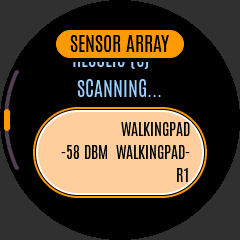
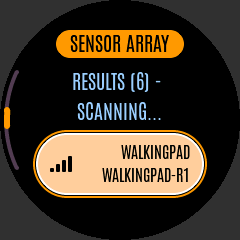
HMI: show 4-bar signal-strength pictogram instead of numeric RSSI

diff --git a/src/variants/hmi/hmi_ui.cpp b/src/variants/hmi/hmi_ui.cpp
@@ -223,7 +223,7 @@ std::string HmiUi::signature() const {
                    status_.input.paired.adapter + std::to_string(status_.input.bleSelected) +
                    std::to_string(config_.simulatedTrainer);
             for (const auto& device : scan_.devices)
-                sig += "|" + device.address + device.name + device.adapter + std::to_string(device.rssi);
+                sig += "|" + device.address + device.name + device.adapter + std::to_string(signalLevel(device.rssi));
             break;
         case Screen::Control:
             sig += std::to_string(static_cast<int>(status_.state)) + std::to_string(status_.canControl) +
@@ -538,8 +538,14 @@ void HmiUi::buildDevices() {
     for (std::size_t index = 0; index < scan_.devices.size(); ++index) {
         const auto& dev = scan_.devices[index];
         const std::uint32_t color = scanEntryMuted(dev) ? lcars::Gray : lcars::Violet;
-        lcars::pill(addButton(list, scanEntryLabel(dev),
-                             [this, index] { openDevice(index); }), color);
+        lv_obj_t* entry = addButton(list, scanEntryLabel(dev), [this, index] { openDevice(index); });
+        lcars::pill(entry, color);
+        // Signal pictogram in the widened left padding, clear of the text.
+        constexpr lv_coord_t kIconGap = 6;
+        const lv_coord_t padLeft = lv_obj_get_style_pad_left(entry, LV_PART_MAIN);
+        lv_obj_set_style_pad_left(entry, padLeft + lcars::SignalBarsWidth + kIconGap, 0);
+        lv_obj_align(lcars::signalBars(entry, signalLevel(dev.rssi), lcars::Black), LV_ALIGN_LEFT_MID,
+                     -(lcars::SignalBarsWidth + kIconGap), 0);
     }
     addButton(list, tr(Str::Back), [this] { back(); });
 }
@@ -549,10 +555,11 @@ void HmiUi::buildDeviceDetail() {
     makeScreen(title);
     lv_obj_t* list = makeList(root_);
     if (!device_.name.empty()) addLabel(list, device_.name);
-    std::string info = device_.address + "\n" + std::to_string(device_.rssi) + " dBm\n" + tr(Str::Adapter) + ": " +
+    addLabel(list, device_.address);
+    lcars::signalBars(list, signalLevel(device_.rssi), lcars::LightBlue);
+    addLabel(list, std::string(tr(Str::Adapter)) + ": " +
                        (device_.adapter.empty() ? std::string(tr(Str::Unknown))
-                                                : device_.adapter + " (" + tr(Str::Detected) + ")");
-    addLabel(list, info);
+                                                : device_.adapter + " (" + tr(Str::Detected) + ")"));
     if (!device_.adapter.empty()) {
         addButton(list, tr(Str::Pair), [this] {
             Command pair;

diff --git a/tests/host/test_hmi_model.cpp b/tests/host/test_hmi_model.cpp
@@ -155,10 +155,13 @@ void testStatusTexts() {
     ScanDeviceView device;
     device.address = "aa:00:00:00:00:22";
     device.rssi = -61;
-    assert(scanEntryLabel(device) == "aa:00:00:00:00:22\n-61 dBm  ?");
+    assert(scanEntryLabel(device) == "aa:00:00:00:00:22\n?");
+    assert(signalLevel(device.rssi) == 3);
+    assert(signalLevel(-40) == 4 && signalLevel(-60) == 4 && signalLevel(-70) == 3 && signalLevel(-71) == 2 &&
+           signalLevel(-80) == 2 && signalLevel(-81) == 1 && signalLevel(-110) == 1);
     device.label = "Apple";
     device.relevant = false;
-    assert(scanEntryLabel(device) == "Apple\n-61 dBm  ?");
+    assert(scanEntryLabel(device) == "Apple\n?");
     assert(scanEntryMuted(device));
     device.label = "FTMS";
     device.relevant = true;  // known service, but no advertised name
@@ -167,7 +170,7 @@ void testStatusTexts() {
     device.label = "WalkingPad";
     device.relevant = true;
     device.adapter = "walkingpad-r1";
-    assert(scanEntryLabel(device) == "WalkingPad\n-61 dBm  walkingpad-r1");
+    assert(scanEntryLabel(device) == "WalkingPad\nwalkingpad-r1");
     assert(!scanEntryMuted(device));
     assert(onOff(true) == "on" && onOff(false) == "off");
 }

diff --git a/src/variants/hmi/lcars_theme.cpp b/src/variants/hmi/lcars_theme.cpp
@@ -215,4 +215,25 @@ void setGauge(const Gauge& segments, float ratio, bool alert) {
     }
 }
 
+lv_obj_t* signalBars(lv_obj_t* parent, int level, std::uint32_t color) {
+    lv_obj_t* icon = lv_obj_create(parent);
+    lv_obj_remove_style_all(icon);
+    lv_obj_set_size(icon, SignalBarsWidth, SignalBarsHeight);
+    lv_obj_remove_flag(icon, LV_OBJ_FLAG_CLICKABLE);
+    lv_obj_remove_flag(icon, LV_OBJ_FLAG_SCROLLABLE);
+    for (int bar = 0; bar < SignalBarCount; ++bar) {
+        lv_obj_t* segment = lv_obj_create(icon);
+        lv_obj_remove_style_all(segment);
+        const int height = SignalBarsHeight * (bar + 1) / SignalBarCount;
+        lv_obj_set_size(segment, SignalBarWidth, height);
+        lv_obj_set_pos(segment, bar * (SignalBarWidth + SignalBarGap), SignalBarsHeight - height);
+        lv_obj_set_style_radius(segment, 1, 0);
+        lv_obj_set_style_bg_color(segment, lv_color_hex(color), 0);
+        // Unlit bars stay visible as outline steps, so the level reads by shape.
+        lv_obj_set_style_bg_opa(segment, bar < level ? LV_OPA_COVER : LV_OPA_30, 0);
+        lv_obj_remove_flag(segment, LV_OBJ_FLAG_CLICKABLE);
+    }
+    return icon;
+}
+
 }  // namespace hmi::lcars

diff --git a/include/variants/hmi/lcars_theme.h b/include/variants/hmi/lcars_theme.h
@@ -33,6 +33,12 @@ constexpr int FocusRingWidth = 2;
 constexpr int FocusRingGap = 1;
 constexpr int FocusRing = FocusRingWidth + FocusRingGap;
 using Gauge = std::array<lv_obj_t*, GaugeSegments>;
+// Four-step signal-strength pictogram (rising bars, see hmi::signalLevel).
+constexpr int SignalBarCount = 4;
+constexpr int SignalBarWidth = 4;
+constexpr int SignalBarGap = 2;
+constexpr int SignalBarsWidth = SignalBarCount * SignalBarWidth + (SignalBarCount - 1) * SignalBarGap;
+constexpr int SignalBarsHeight = 16;
 
 void init(lv_display_t* display);
 std::string uppercase(std::string text);
@@ -41,5 +47,7 @@ void scrollbar(lv_obj_t* container);
 void pill(lv_obj_t* object, std::uint32_t color = Lavender);
 Gauge gauge(lv_obj_t* parent);
 void setGauge(const Gauge& segments, float ratio, bool alert = false);
+// Signal pictogram with `level` (0..SignalBarCount) lit bars in `color`.
+lv_obj_t* signalBars(lv_obj_t* parent, int level, std::uint32_t color);
 
 }  // namespace hmi::lcars

diff --git a/include/variants/hmi/hmi_model.h b/include/variants/hmi/hmi_model.h
@@ -97,8 +97,12 @@ std::string inputLabel(const smartfitness::StatusView& status);
 std::string ftmsLabel(const smartfitness::FtmsOutputView& ftms);
 // "Power 180 W" / "No target".
 std::string targetLabel(const smartfitness::StatusView& status);
-// Two-line scan list entry: name (or address) / "-60 dBm  ftms".
+// Two-line scan list entry: name (or address) / "ftms"; the signal strength is
+// shown as a pictogram next to it (see signalLevel).
 std::string scanEntryLabel(const smartfitness::ScanDeviceView& device);
+// Four-step signal-strength pictogram level (1..4 bars) for an RSSI in dBm:
+// >= -60 → 4, >= -70 → 3, >= -80 → 2, weaker → 1.
+int signalLevel(int rssi);
 // Grey scan entry: irrelevant devices (sorted last) and devices without an
 // advertised name, whose label falls back to manufacturer, service or address.
 bool scanEntryMuted(const smartfitness::ScanDeviceView& device);

diff --git a/src/variants/hmi/hmi_model.cpp b/src/variants/hmi/hmi_model.cpp
@@ -226,9 +226,16 @@ std::string targetLabel(const StatusView& status) {
 std::string scanEntryLabel(const ScanDeviceView& device) {
     const std::string& primary = !device.label.empty() ? device.label : (device.name.empty() ? device.address : device.name);
     std::string label = primary;
-    label += "\n" + std::to_string(device.rssi) + " dBm  ";
+    label += "\n";
     label += device.adapter.empty() ? std::string("?") : device.adapter;
     return label;
+}
+
+int signalLevel(int rssi) {
+    if (rssi >= -60) return 4;
+    if (rssi >= -70) return 3;
+    if (rssi >= -80) return 2;
+    return 1;
 }
 
 bool scanEntryMuted(const ScanDeviceView& device) { return !device.relevant || device.name.empty(); }

diff --git a/docs/hmi/README.md b/docs/hmi/README.md
@@ -66,6 +66,10 @@ peach on black. Error indicators also include text, not colour alone.
   use the larger preset pills when possible.
 - Data: large central digits, small unit, labelled secondary/status readouts;
   blue segments fill an arc (HMI) or a linear gauge (web).
+- Signal strength (HMI): a 4-bar pictogram (`lcars::signalBars`) replaces the
+  numeric RSSI in scan results (black on the pill, left of the label) and device
+  details (light blue). Bars lit: ≥ −60 dBm 4, ≥ −70 dBm 3, ≥ −80 dBm 2, else 1;
+  unlit bars stay visible at 30 % opacity so the level reads by shape.
 - Focus: brighter selection with a white outline, including `:focus-visible`.
   On the HMI the knob cursor is a 2 px white inner border plus a 2 px orange
   ring 1 px outside the focused pill/roller/keyboard (light blue while

diff --git a/README.md b/README.md
@@ -160,7 +160,7 @@ Screens (same interactions as the web UI):
 - **Dashboard** – arc gauge for the selected metric (power, cadence, speed, heart
   rate, incline, distance, time), target, connection/trainer/control state, machine
   profile and FTMS client state. Press opens the menu.
-- **Devices** – start/stop scan, scan results (name, RSSI, adapter), pair/connect
+- **Devices** – start/stop scan, scan results (name, adapter, 4-bar signal-strength icon instead of numeric RSSI), pair/connect
   with optional adapter override (all adapters incl. `ifit-model-N` and WalkingPad
   cipher profiles), disconnect, unpair, simulation on/off.
 - **Control** – target power/resistance/incline/speed. Values are set with the knob
